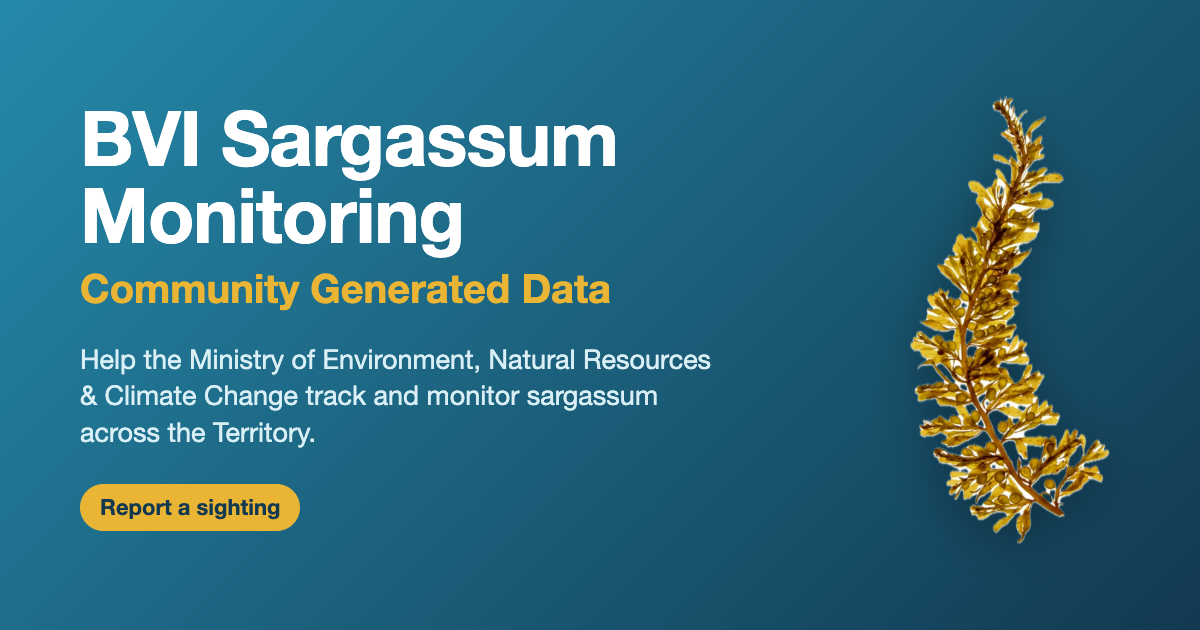
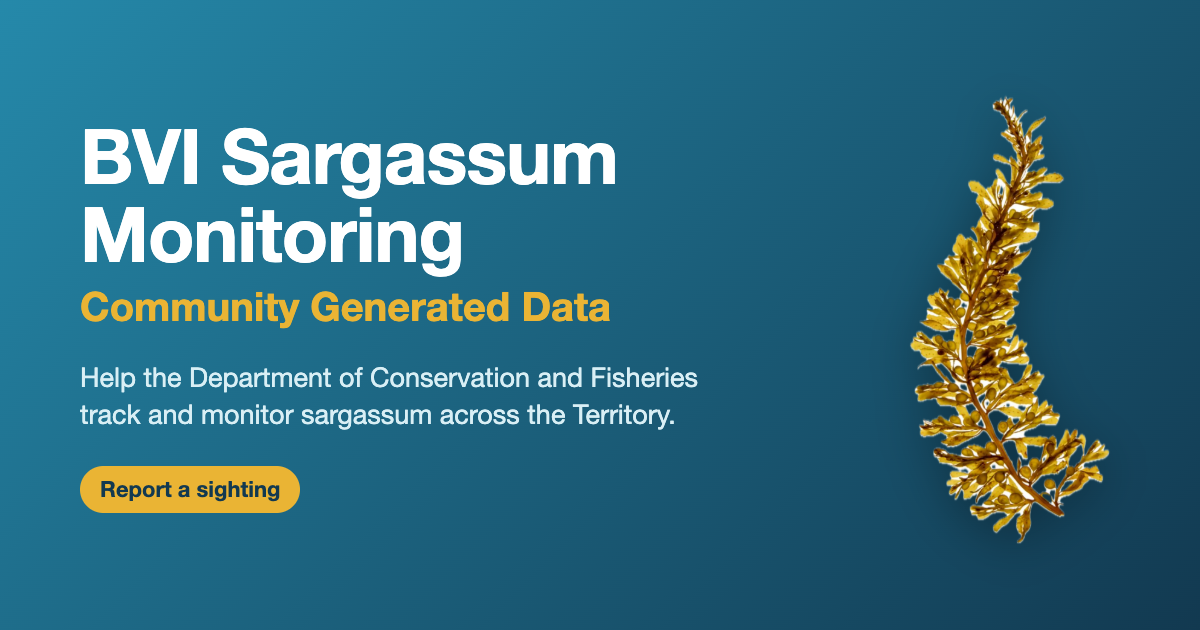
Use 'Department of Conservation and Fisheries' consistently across UI, README, OG image

Changed region(s): [[0.0617, 0.1508, 0.5242, 0.5127], [0.0617, 0.5429, 0.5858, 0.8444]]

diff --git a/src/app/page.tsx b/src/app/page.tsx
@@ -35,8 +35,8 @@ export default function Home() {
         </div>
 
         <p className="mx-auto mt-3 max-w-md text-center text-sm text-ocean-50">
-          Help the Ministry of Environment, Natural Resources &amp; Climate
-          Change track and monitor sargassum across the Territory.
+            Help the Department of Conservation and Fisheries track and monitor
+            sargassum across the Territory.
         </p>
       </header>
 
@@ -51,7 +51,7 @@ export default function Home() {
         </p>
         <p className="mt-2 text-xs text-ocean-500">
           Reports are anonymous. Location, photos, and answers are shared with
-          the Ministry.
+          the Department.
         </p>
       </footer>
     </main>

diff --git a/src/components/ReportForm.tsx b/src/components/ReportForm.tsx
@@ -131,7 +131,7 @@ export function ReportForm() {
         <CheckCircle2 className="mx-auto h-16 w-16 text-severity-low" />
         <h2 className="mt-4 text-xl font-bold text-ocean-900">Thank you</h2>
         <p className="mt-2 text-ocean-700">
-          Your report has been received by the Ministry of Environment, Natural Resources &amp; Climate Change.
+          Your report has been received by the Department of Conservation and Fisheries.
         </p>
         {submittedAt && (
           <p className="mt-2 text-sm text-ocean-500">
@@ -180,7 +180,7 @@ export function ReportForm() {
         index={4}
         title="Health impact"
         required
-          caption="Decomposing sargassum can release hydrogen sulfide gas. Your answer helps the Ministry monitor community health effects."
+          caption="Decomposing sargassum can release hydrogen sulfide gas. Your answer helps the Department monitor community health effects."
       >
         <ScaleSlider
           value={health}

diff --git a/src/app/layout.tsx b/src/app/layout.tsx
@@ -31,7 +31,7 @@ const inter = Inter({
 
 const APP_TITLE = "BVI Sargassum Monitoring — Community Generated Data";
 const APP_DESCRIPTION =
-  "Help the Ministry of Environment, Natural Resources & Climate Change track and monitor sargassum across the Territory.";
+  "Help the Department of Conservation and Fisheries track and monitor sargassum across the Territory.";
 
 export const metadata: Metadata = {
   metadataBase: new URL(process.env.NEXT_PUBLIC_SITE_URL || "http://localhost:3000"),

diff --git a/src/app/manifest.ts b/src/app/manifest.ts
@@ -5,7 +5,7 @@ export default function manifest(): MetadataRoute.Manifest {
     name: "BVI Sargassum Monitoring",
     short_name: "Sargassum BVI",
     description:
-      "Report sargassum sightings to help the Ministry of Environment, Natural Resources & Climate Change monitor the Territory.",
+      "Report sargassum sightings to help the Department of Conservation and Fisheries monitor the Territory.",
     start_url: "/",
     display: "standalone",
     background_color: "#123950",

diff --git a/README.md b/README.md
@@ -1,9 +1,9 @@
 # BVI Sargassum Monitoring — Community Generated Data
 
-A public, mobile-first web app for the BVI Ministry of Environment, Natural
-Resources & Climate Change. Community members report sargassum sightings —
-no login, no download, no friction — and a password-protected admin dashboard
-lets the Ministry view, filter, and export all reports.
+A public, mobile-first web app for the BVI Department of Conservation and
+Fisheries. Community members report sargassum sightings — no login, no
+download, no friction — and a password-protected admin dashboard lets the
+Department view, filter, and export all reports.
 
 - **Public form** (`/`) — location (Mapbox pin picker), up to 3 photos
   (compressed client-side, uploaded on submit), severity and health-impact